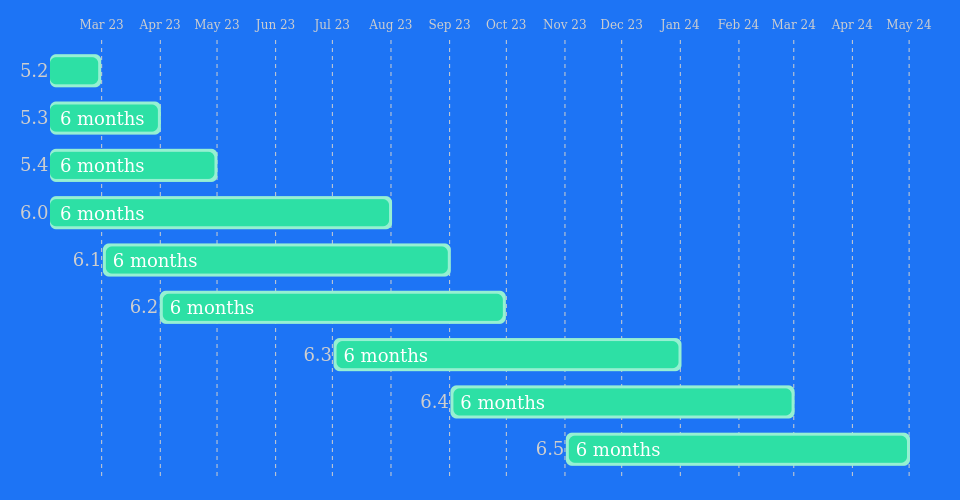
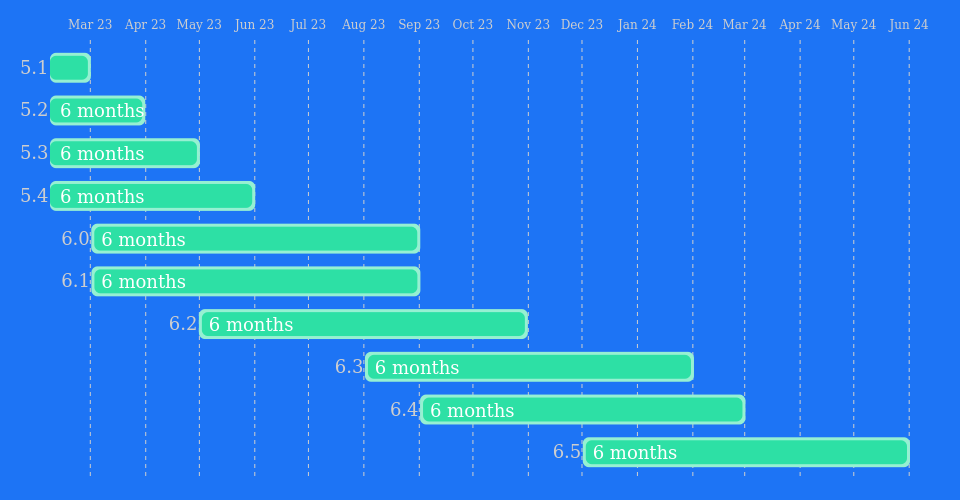
Update resources/rocket.chats-support-structure/enterprise-support-and-version-durability/README.md

diff --git a/customer-center/support-center/premium-support-plans/support-prerequisites-and-version-durability.md b/customer-center/support-center/premium-support-plans/support-prerequisites-and-version-durability.md
@@ -39,51 +39,51 @@ Please note that **end-of-life** for any version signifies the last day of the m
 
 | Rocket.Chat Release                                                            | Released At | End of Life |
 | ------------------------------------------------------------------------------ | ----------: | ----------: |
-| 6.5 ([6.5.3](https://github.com/RocketChat/Rocket.Chat/releases/tag/6.5.3))    |    Nov 2023 |    May 2024 |
+| 6.5 ([6.5.3](https://github.com/RocketChat/Rocket.Chat/releases/tag/6.5.3))    |    Dec 2023 |    Jun 2024 |
 | 6.4 ([6.4.9](https://github.com/RocketChat/Rocket.Chat/releases/tag/6.4.9))    |    Sep 2023 |    Mar 2024 |
-| 6.3 ([6.3.12](https://github.com/RocketChat/Rocket.Chat/releases/tag/6.3.12))  |    Jul 2023 |    Jan 2024 |
-| 6.2 ([6.2.12](https://github.com/RocketChat/Rocket.Chat/releases/tag/6.2.12))  |    Apr 2023 |    Oct 2023 |
+| 6.3 ([6.3.12](https://github.com/RocketChat/Rocket.Chat/releases/tag/6.3.12))  |    Aug 2023 |    Feb 2024 |
+| 6.2 ([6.2.12](https://github.com/RocketChat/Rocket.Chat/releases/tag/6.2.12))  |    May 2023 |    Nov 2023 |
 | 6.1 ([6.1.8](https://github.com/RocketChat/Rocket.Chat/releases/tag/6.1.8))    |    Mar 2023 |    Sep 2023 |
-| 6.0 ([6.0.8](https://github.com/RocketChat/Rocket.Chat/releases/tag/6.0.8))    |    Feb 2023 |    Aug 2023 |
-| 5.4 ([5.4.10](https://github.com/RocketChat/Rocket.Chat/releases/tag/5.4.10))  |    Nov 2022 |    May 2023 |
-| 5.3 ([5.3.7](https://github.com/RocketChat/Rocket.Chat/releases/tag/5.3.7))    |    Oct 2022 |    Apr 2023 |
-| 5.2 ([5.2.2](https://github.com/RocketChat/Rocket.Chat/releases/tag/5.2.2))    |    Sep 2022 |    Mar 2023 |
-| 5.1 ([5.1.5](https://github.com/RocketChat/Rocket.Chat/releases/tag/5.1.5))    |    Aug 2022 |    Feb 2023 |
+| 6.0 ([6.0.8](https://github.com/RocketChat/Rocket.Chat/releases/tag/6.0.8))    |    Mar 2023 |    Sep 2023 |
+| 5.4 ([5.4.10](https://github.com/RocketChat/Rocket.Chat/releases/tag/5.4.10))  |    Dec 2022 |    Jun 2023 |
+| 5.3 ([5.3.7](https://github.com/RocketChat/Rocket.Chat/releases/tag/5.3.7))    |    Nov 2022 |    May 2023 |
+| 5.2 ([5.2.2](https://github.com/RocketChat/Rocket.Chat/releases/tag/5.2.2))    |    Oct 2022 |    Apr 2023 |
+| 5.1 ([5.1.5](https://github.com/RocketChat/Rocket.Chat/releases/tag/5.1.5))    |    Sep 2022 |    Mar 2023 |
 | 5.0 ([5.0.8](https://github.com/RocketChat/Rocket.Chat/releases/tag/5.0.8))    |    Jul 2022 |    Jan 2023 |
-| 4.8 ([4.8.7](https://github.com/RocketChat/Rocket.Chat/releases/tag/4.8.7))    |    May 2022 |    Nov 2022 |
-| 4.7 ([4.7.5](https://github.com/RocketChat/Rocket.Chat/releases/tag/4.7.5))    |    Apr 2022 |    Oct 2022 |
-| 4.6 ([4.6.4](https://github.com/RocketChat/Rocket.Chat/releases/tag/4.6.4))    |    Mar 2022 |    Sep 2022 |
-| 4.5 ([4.5.7](https://github.com/RocketChat/Rocket.Chat/releases/tag/4.5.7))    |    Feb 2022 |    Aug 2022 |
+| 4.8 ([4.8.7](https://github.com/RocketChat/Rocket.Chat/releases/tag/4.8.7))    |    Jun 2022 |    Dec 2022 |
+| 4.7 ([4.7.5](https://github.com/RocketChat/Rocket.Chat/releases/tag/4.7.5))    |    May 2022 |    Nov 2022 |
+| 4.6 ([4.6.4](https://github.com/RocketChat/Rocket.Chat/releases/tag/4.6.4))    |    Apr 2022 |    Oct 2022 |
+| 4.5 ([4.5.7](https://github.com/RocketChat/Rocket.Chat/releases/tag/4.5.7))    |    Mar 2022 |    Sep 2022 |
 | 4.4 ([4.4.5](https://github.com/RocketChat/Rocket.Chat/releases/tag/4.4.5))    |    Jan 2022 |    Jul 2022 |
 | 4.3 ([4.3.3](https://github.com/RocketChat/Rocket.Chat/releases/tag/4.3.3))    |    Dec 2021 |    Jun 2022 |
 | 4.2 ([4.2.4](https://github.com/RocketChat/Rocket.Chat/releases/tag/4.2.4))    |    Nov 2021 |    May 2022 |
 | 4.1 ([4.1.6](https://github.com/RocketChat/Rocket.Chat/releases/tag/4.1.6))    |    Oct 2021 |    Apr 2022 |
-| 4.0 ([4.0.6](https://github.com/RocketChat/Rocket.Chat/releases/tag/4.0.6))    |    Sep 2021 |    Mar 2022 |
+| 4.0 ([4.0.6](https://github.com/RocketChat/Rocket.Chat/releases/tag/4.0.6))    |    Oct 2021 |    Apr 2022 |
 | 3.18 ([3.18.7](https://github.com/RocketChat/Rocket.Chat/releases/tag/3.18.7)) |    Aug 2021 |    Feb 2022 |
 | 3.17 ([3.17.3](https://github.com/RocketChat/Rocket.Chat/releases/tag/3.17.3)) |    Jul 2021 |    Jan 2022 |
 | 3.16 ([3.16.5](https://github.com/RocketChat/Rocket.Chat/releases/tag/3.16.5)) |    Jun 2021 |    Dec 2021 |
 | 3.15 ([3.15.4](https://github.com/RocketChat/Rocket.Chat/releases/tag/3.15.4)) |    May 2021 |    Nov 2021 |
 | 3.14 ([3.14.6](https://github.com/RocketChat/Rocket.Chat/releases/tag/3.14.6)) |    Apr 2021 |    Oct 2021 |
-| 3.13 ([3.13.5](https://github.com/RocketChat/Rocket.Chat/releases/tag/3.13.5)) |    Mar 2021 |    Sep 2021 |
+| 3.13 ([3.13.5](https://github.com/RocketChat/Rocket.Chat/releases/tag/3.13.5)) |    Apr 2021 |    Oct 2021 |
 | 3.12 ([3.12.7](https://github.com/RocketChat/Rocket.Chat/releases/tag/3.12.7)) |    Feb 2021 |    Aug 2021 |
-| 3.11 ([3.11.6](https://github.com/RocketChat/Rocket.Chat/releases/tag/3.11.6)) |    Jan 2021 |    Jul 2021 |
+| 3.11 ([3.11.6](https://github.com/RocketChat/Rocket.Chat/releases/tag/3.11.6)) |    Feb 2021 |    Aug 2021 |
 | 3.10 ([3.10.7](https://github.com/RocketChat/Rocket.Chat/releases/tag/3.10.7)) |    Dec 2020 |    Jun 2021 |
 | 3.9 ([3.9.7](https://github.com/RocketChat/Rocket.Chat/releases/tag/3.9.7))    |    Nov 2020 |    May 2021 |
-| 3.8 ([3.8.9](https://github.com/RocketChat/Rocket.Chat/releases/tag/3.8.9))    |    Oct 2020 |    Apr 2021 |
+| 3.8 ([3.8.9](https://github.com/RocketChat/Rocket.Chat/releases/tag/3.8.9))    |    Nov 2020 |    May 2021 |
 | 3.7 ([3.7.4](https://github.com/RocketChat/Rocket.Chat/releases/tag/3.7.4))    |    Sep 2020 |    Mar 2021 |
 | 3.6 ([3.6.3](https://github.com/RocketChat/Rocket.Chat/releases/tag/3.6.3))    |    Aug 2020 |    Feb 2021 |
 | 3.5 ([3.5.4](https://github.com/RocketChat/Rocket.Chat/releases/tag/3.5.4))    |    Jul 2020 |    Jan 2021 |
 | 3.4 ([3.4.3](https://github.com/RocketChat/Rocket.Chat/releases/tag/3.4.3))    |    Jun 2020 |    Dec 2020 |
 | 3.3 ([3.3.3](https://github.com/RocketChat/Rocket.Chat/releases/tag/3.3.3))    |    May 2020 |    Nov 2020 |
 | 3.2 ([3.2.2](https://github.com/RocketChat/Rocket.Chat/releases/tag/3.2.2))    |    Apr 2020 |    Oct 2020 |
-| 3.1 ([3.1.3](https://github.com/RocketChat/Rocket.Chat/releases/tag/3.1.3))    |    Mar 2020 |    Sep 2020 |
-| 3.0 ([3.0.13](https://github.com/RocketChat/Rocket.Chat/releases/tag/3.0.13))  |    Jan 2020 |    Jul 2020 |
+| 3.1 ([3.1.3](https://github.com/RocketChat/Rocket.Chat/releases/tag/3.1.3))    |    Apr 2020 |    Oct 2020 |
+| 3.0 ([3.0.13](https://github.com/RocketChat/Rocket.Chat/releases/tag/3.0.13))  |    Feb 2020 |    Aug 2020 |
 | 2.4 ([2.4.14](https://github.com/RocketChat/Rocket.Chat/releases/tag/2.4.14))  |    Dec 2019 |    Jun 2020 |
 | 2.3 ([2.3.3](https://github.com/RocketChat/Rocket.Chat/releases/tag/2.3.3))    |    Nov 2019 |    May 2020 |
 | 2.2 ([2.2.1](https://github.com/RocketChat/Rocket.Chat/releases/tag/2.2.1))    |    Oct 2019 |    Apr 2020 |
 | 2.1 ([2.1.3](https://github.com/RocketChat/Rocket.Chat/releases/tag/2.1.3))    |    Sep 2019 |    Mar 2020 |
-| 2.0 ([2.0.1](https://github.com/RocketChat/Rocket.Chat/releases/tag/2.0.1))    |    Aug 2019 |    Feb 2020 |
-| 1.3 ([1.3.5](https://github.com/RocketChat/Rocket.Chat/releases/tag/1.3.5))    |    Jul 2019 |    Jan 2020 |
+| 2.0 ([2.0.1](https://github.com/RocketChat/Rocket.Chat/releases/tag/2.0.1))    |    Sep 2019 |    Mar 2020 |
+| 1.3 ([1.3.5](https://github.com/RocketChat/Rocket.Chat/releases/tag/1.3.5))    |    Aug 2019 |    Feb 2020 |
 | 1.2 ([1.2.4](https://github.com/RocketChat/Rocket.Chat/releases/tag/1.2.4))    |    Jun 2019 |    Dec 2019 |
 | 1.1 ([1.1.5](https://github.com/RocketChat/Rocket.Chat/releases/tag/1.1.5))    |    May 2019 |    Nov 2019 |
 | 1.0 ([1.0.5](https://github.com/RocketChat/Rocket.Chat/releases/tag/1.0.5))    |    Apr 2019 |    Oct 2019 |
